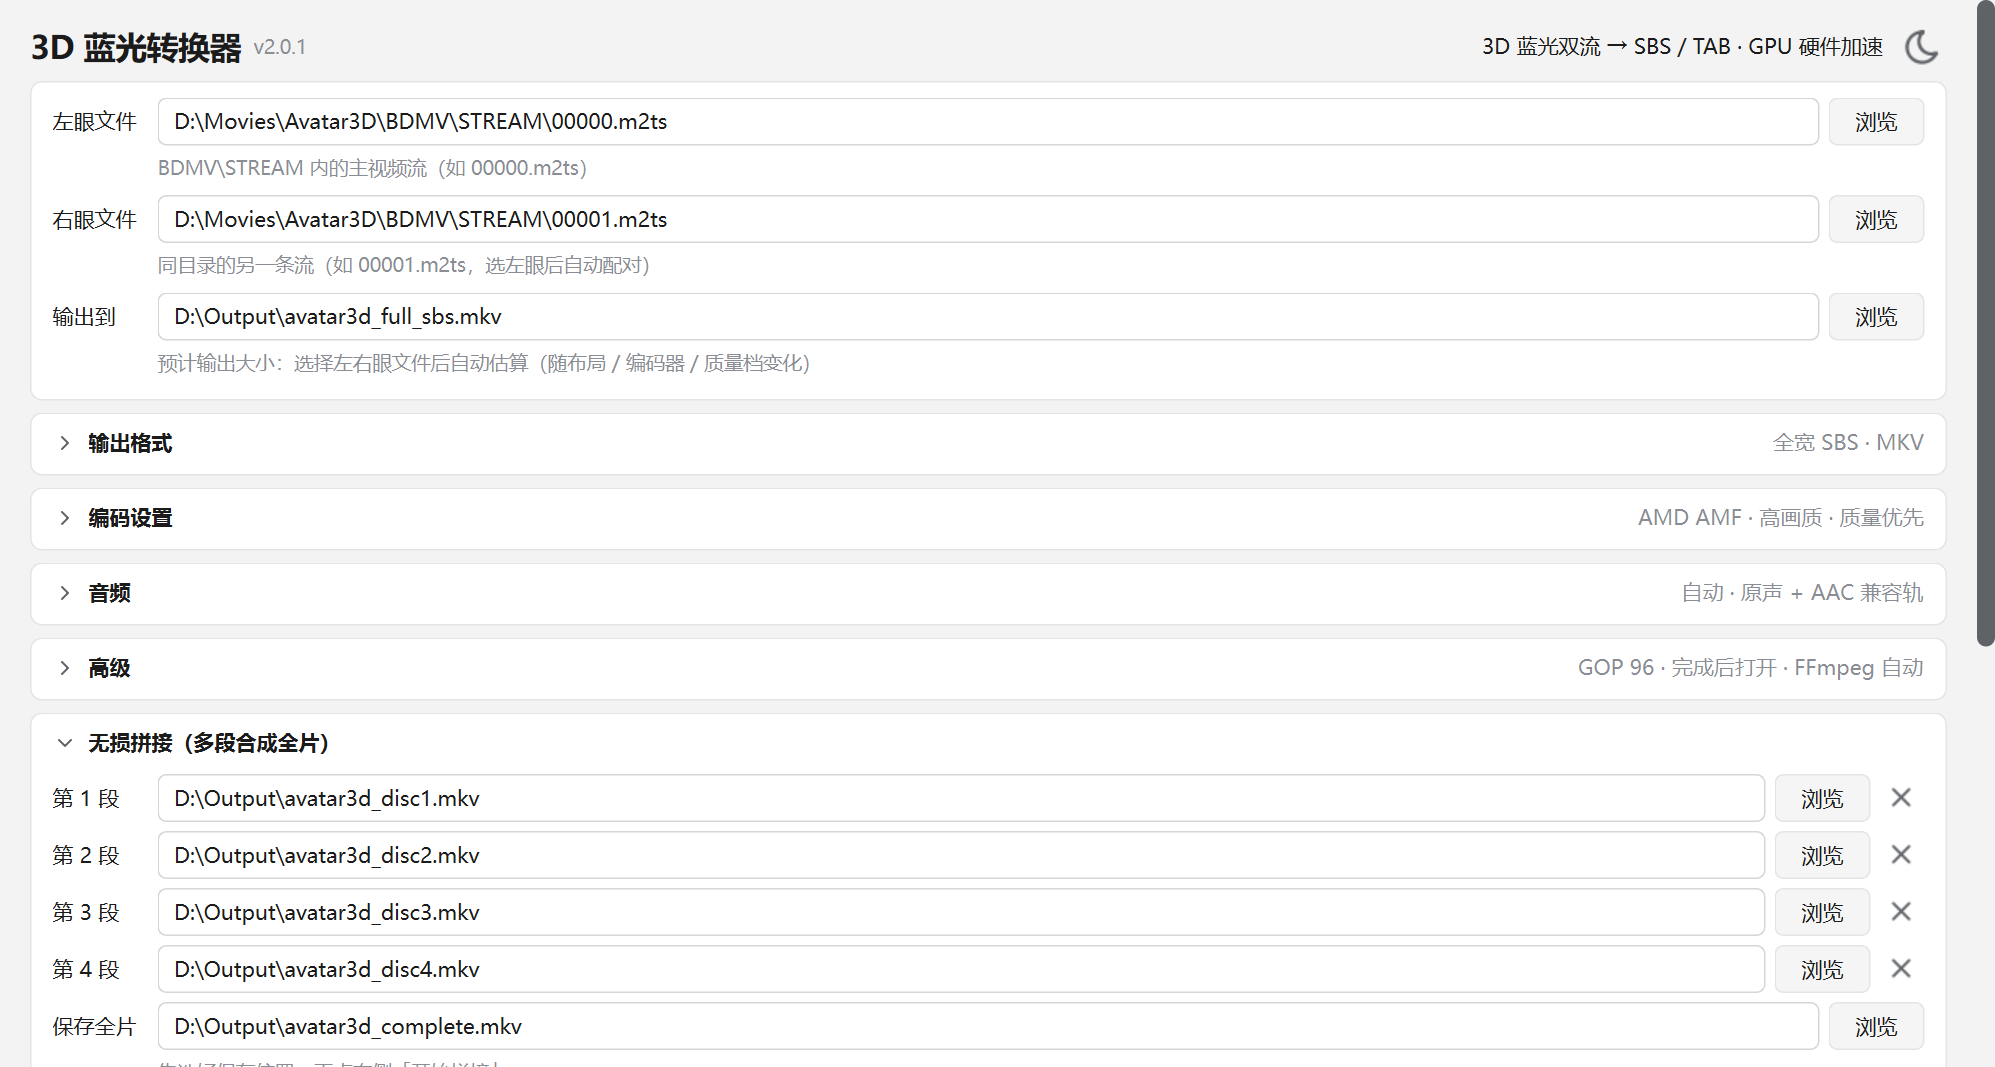
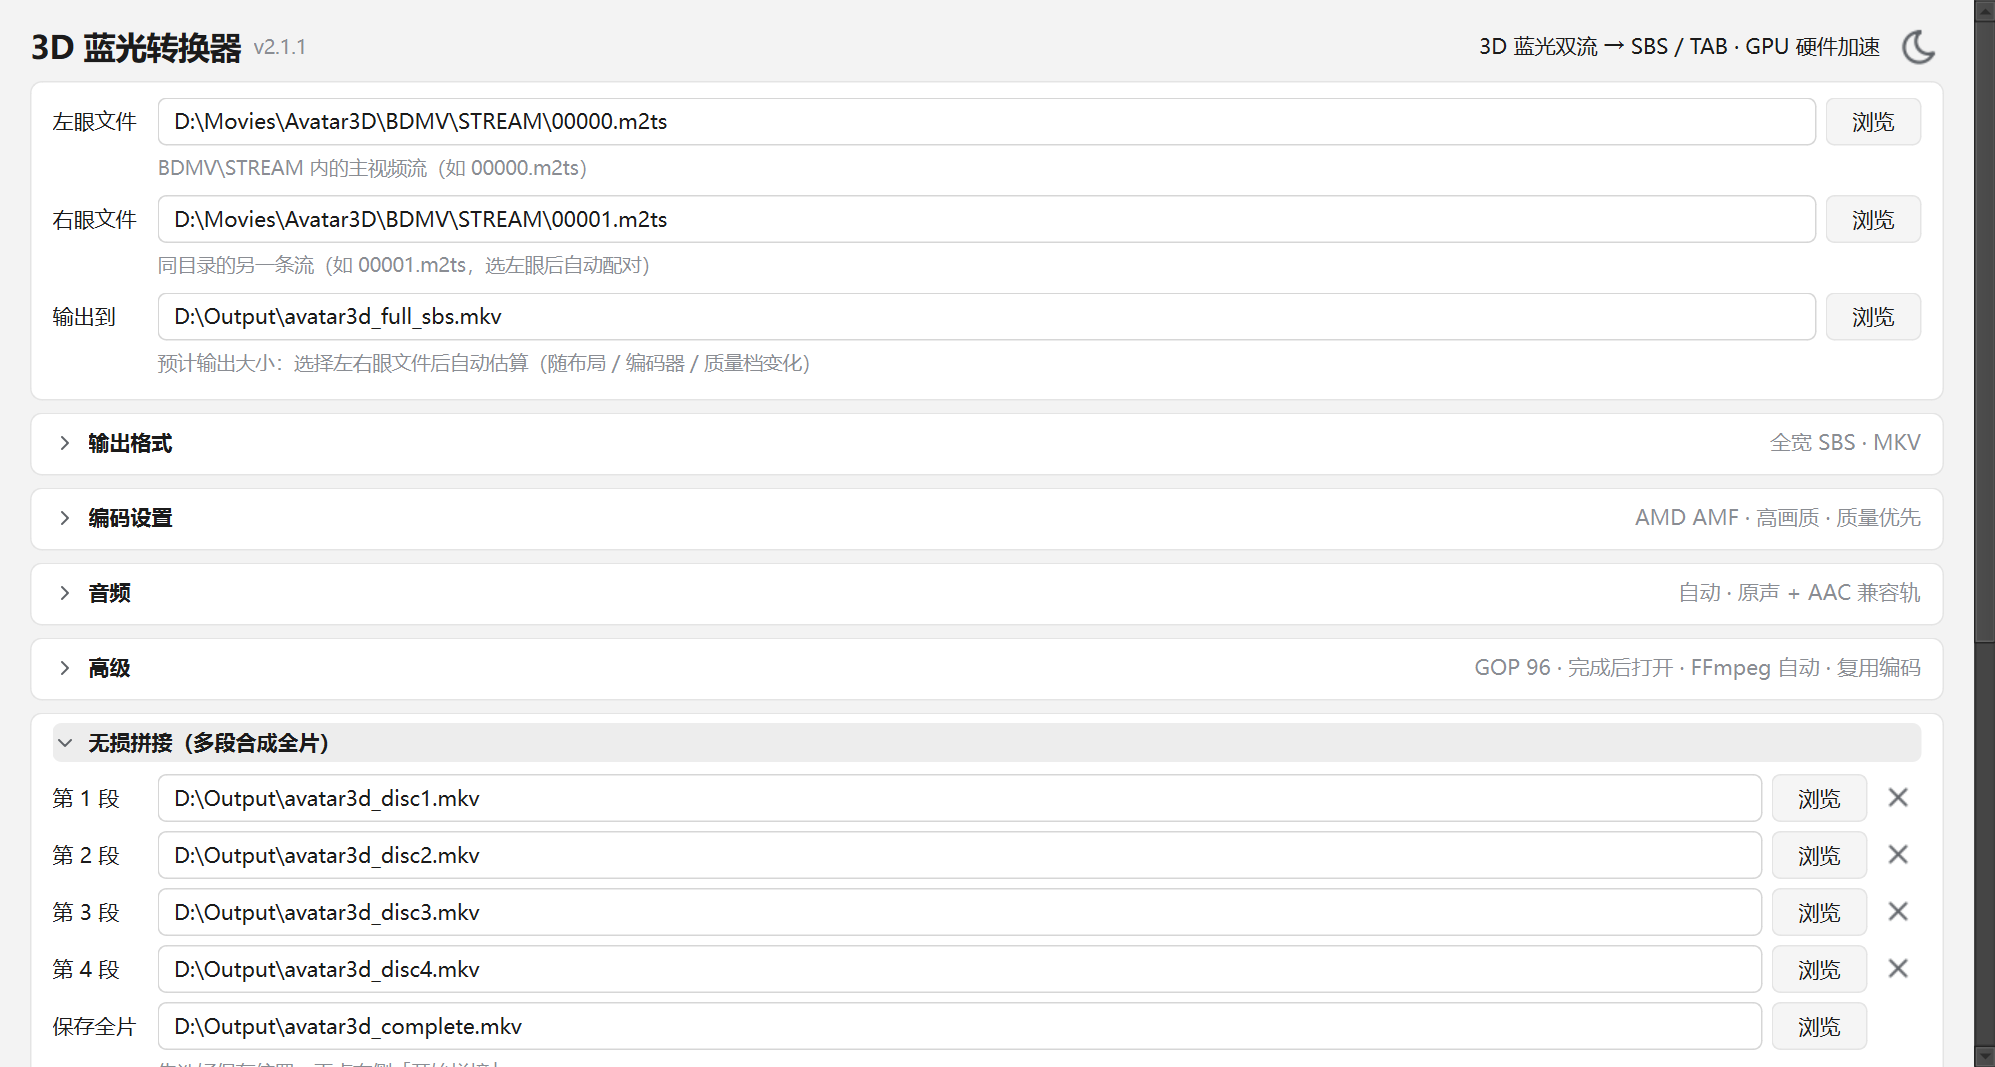
feat: pause/resume with breakpoint continuation (suspend child process), cancel confirmation showing progress deletion, close-event keeps progress; fix concat row browse button alignment; bump v2.2.0

Changed region(s): [[0.7459, 0.0, 1.0, 1.0]]

diff --git a/bluray3d_converter.py b/bluray3d_converter.py
@@ -35,7 +35,7 @@ from PySide6.QtWidgets import (
     QStyledItemDelegate, QStyleOptionViewItem, QFileDialog, QMessageBox, QScrollArea)
 
 APP_TITLE = "3D 蓝光转换器"
-APP_VERSION = "v2.1.1"
+APP_VERSION = "v2.2.0"
 
 # ---- 选项定义 ----
 LAYOUTS = [
@@ -338,6 +338,7 @@ THEMES = {
         dim="#9a9ca8", faint="#6b6d78", input="#2a2c34", input_border="#2e3038",
         accent="#3574f0", accent_h="#2b5fd0", btn="#33363e", btn_h="#3d4149",
         disabled_bg="#24262c",
+        danger="#c62828", danger_h="#d33b3b", danger_p="#a51f1f",
         hover="#26272e", chk_border="#3d4149",
         chev_right="chevron-right.svg", chev_down="chevron-down.svg",
         theme_icon="sun.svg"),
@@ -346,6 +347,7 @@ THEMES = {
         dim="#5f6368", faint="#8a8d93", input="#ffffff", input_border="#d6d6d6",
         accent="#3574f0", accent_h="#2b5fd0", btn="#f5f5f5", btn_h="#ebebeb",
         disabled_bg="#eeeeee",
+        danger="#c62828", danger_h="#d33b3b", danger_p="#a51f1f",
         hover="#ededed", chk_border="#c0c0c0",
         chev_right="chevron-right-light.svg", chev_down="chevron-down-light.svg",
         theme_icon="moon.svg"),
@@ -393,6 +395,11 @@ QPushButton#accent { background: @ACCENT@; border: 1px solid @ACCENT@;
 QPushButton#accent:hover { background: @ACCENT_H@; }
 QPushButton#accent:disabled { background: #2b3f66; border-color: #2b3f66;
                               color: #9aa5b8; }
+QPushButton#danger { background: @DANGER@; color: #ffffff; border: none;
+            border-radius: 6px; padding: 7px 14px; font-weight: 600; }
+QPushButton#danger:hover { background: @DANGER_H@; }
+QPushButton#danger:pressed { background: @DANGER_P@; }
+QPushButton#danger:disabled { background: @DISABLED_BG@; color: @DISABLED_FG@; }
 QProgressBar { background: @BORDER@; border: none; border-radius: 4px; }
 QProgressBar::chunk { background: @ACCENT@; border-radius: 4px; }
 QCheckBox { color: @DIM@; spacing: 8px; }
@@ -587,6 +594,7 @@ class ConvertJob(threading.Thread):
         self.on_done = on_done or (lambda out: None)
         self.on_error = on_error or (lambda err: None)
         self.cancel_flag = False
+        self.paused = False
         self.proc = None
         self.workdir = ""
         self.ffmpeg = ffmpeg or FFMPEG
@@ -594,11 +602,53 @@ class ConvertJob(threading.Thread):
     def cancel(self):
         self.cancel_flag = True
         p = self.proc
-        if p is not None and p.poll() is None:
+        if p is not None:
             try:
+                if self.paused:
+                    self.resume()
                 p.terminate()
             except Exception:
                 pass
+
+    def pause(self):
+        """暂停：挂起当前子进程，进度保留（支持断点续转）"""
+        if self.paused:
+            return True
+        p = self.proc
+        if p is None or p.poll() is not None:
+            return False
+        try:
+            import ctypes
+            h = ctypes.windll.kernel32.OpenProcess(0x1F0FFF, False, p.pid)
+            if not h:
+                return False
+            ctypes.windll.ntdll.NtSuspendProcess(ctypes.c_void_p(h))
+            ctypes.windll.kernel32.CloseHandle(ctypes.c_void_p(h))
+            self.paused = True
+            self._log("已暂停（进度保留，点击「继续转换」可断点续转）")
+            return True
+        except Exception as e:
+            self._log("暂停失败：" + str(e))
+            return False
+
+    def resume(self):
+        """继续：恢复被挂起的子进程"""
+        if not self.paused:
+            return True
+        p = self.proc
+        try:
+            import ctypes
+            if p is not None and p.poll() is None:
+                h = ctypes.windll.kernel32.OpenProcess(0x1F0FFF, False, p.pid)
+                if h:
+                    ctypes.windll.ntdll.NtResumeProcess(ctypes.c_void_p(h))
+                    ctypes.windll.kernel32.CloseHandle(ctypes.c_void_p(h))
+            self.paused = False
+            self._log("已继续转换")
+            return True
+        except Exception as e:
+            self._log("继续失败：" + str(e))
+            return False
 
     def _check(self):
         if self.cancel_flag:
@@ -656,10 +706,8 @@ class ConvertJob(threading.Thread):
                     pass
             self.on_done(self.out_file)
         except Cancelled:
-            self._log("任务已取消")
-            if self.workdir and os.path.isdir(self.workdir):
-                self._log("中间文件夹已保留：%s（重跑相同任务可复用已完成部分）"
-                          % self.workdir)
+            self._log("任务已取消，正在删除本次转换的中间文件...")
+            self._cleanup_workdir()
             self.on_error("已取消")
         except Exception as e:
             self._log("错误：" + str(e))
@@ -688,6 +736,9 @@ class ConvertJob(threading.Thread):
 
         def loop():
             while not holder["stop"].wait(20):
+                if self.paused:
+                    holder["t"] = time.time()
+                    continue
                 gap = time.time() - holder["t"]
                 if gap > 60:
                     self._log("…%s 仍在运行（已 %.0f 秒无新输出；大文件写盘 / "
@@ -1584,7 +1635,8 @@ class MainWindow(QWidget):
             self._add_seg_row("")
         self.le_cat_out = QLineEdit(self.cfg.get("cat_out", ""))
         self._file_row(self.sec_cat.body_layout, "保存全片", self.le_cat_out,
-                       self.pick_cat_out, "先选好保存位置，再点右侧「开始拼接」")
+                       self.pick_cat_out, "先选好保存位置，再点右侧「开始拼接」",
+                       right_pad=30)
         r = QHBoxLayout()
         self.btn_seg_add = QPushButton("添加分段")
         self.btn_seg_add.setFixedWidth(90)
@@ -1604,7 +1656,7 @@ class MainWindow(QWidget):
         self.btn_start = QPushButton("开始转换")
         self.btn_start.setObjectName("accent")
         self.btn_start.setFixedWidth(130)
-        self.btn_start.clicked.connect(self.start)
+        self.btn_start.clicked.connect(self._start_or_pause)
         brow.addWidget(self.btn_start)
         self.btn_cancel = QPushButton("取消")
         self.btn_cancel.setFixedWidth(90)
@@ -1701,7 +1753,7 @@ class MainWindow(QWidget):
         if i >= 0:
             cb.setCurrentIndex(i)
 
-    def _file_row(self, parent, label, le, browse_cmd, hint=""):
+    def _file_row(self, parent, label, le, browse_cmd, hint="", right_pad=0):
         row = QHBoxLayout()
         lb = QLabel(label)
         lb.setFixedWidth(64)
@@ -1711,6 +1763,10 @@ class MainWindow(QWidget):
         b.setFixedWidth(64)
         b.clicked.connect(browse_cmd)
         row.addWidget(b)
+        if right_pad:
+            spacer = QWidget()
+            spacer.setFixedWidth(right_pad)
+            row.addWidget(spacer)
         parent.addLayout(row)
         h = QLabel(hint)
         h.setObjectName("faintlabel")
@@ -2032,15 +2088,45 @@ class MainWindow(QWidget):
         self.lbl_pct.setText("%.1f%%" % pct)
         self.lbl_stat.setText(info)
 
-    def _done(self, out):
+    def _repolish(self, w):
+        w.style().unpolish(w)
+        w.style().polish(w)
+
+    def _reset_start_btn(self):
         self.btn_start.setEnabled(True)
+        self.btn_start.setText("开始转换")
+        self.btn_start.setObjectName("accent")
+        self._repolish(self.btn_start)
+
+    def _start_or_pause(self):
+        """开始 / 暂停 / 继续 三态按钮"""
+        if self.job and self.job.is_alive():
+            if self.job.paused:
+                self.job.resume()
+                self.btn_start.setText("暂停")
+                self.btn_start.setObjectName("danger")
+                self._repolish(self.btn_start)
+                self.lbl_stage.setText("转换中")
+            else:
+                if self.job.pause():
+                    self.btn_start.setText("继续转换")
+                    self.btn_start.setObjectName("accent")
+                    self._repolish(self.btn_start)
+                    self.lbl_stage.setText("已暂停")
+                else:
+                    self._log("当前阶段无法暂停（可能在阶段切换中），请稍后再试")
+        else:
+            self.start()
+
+    def _done(self, out):
+        self._reset_start_btn()
         self.btn_cancel.setEnabled(False)
         self.lbl_stage.setText("完成")
         self._progress(100.0, "输出：" + out)
         QMessageBox.information(self, APP_TITLE, "转换完成！\n\n" + out)
 
     def _fail(self, err):
-        self.btn_start.setEnabled(True)
+        self._reset_start_btn()
         self.btn_cancel.setEnabled(False)
         self._concat_running = False
         self._concat_procs = []
@@ -2194,7 +2280,10 @@ class MainWindow(QWidget):
         self._log("编码器预检通过：%s（FFmpeg %s）" % (
             self.cmb_encoder.currentText(), eff_ver))
         self._save_cfg()
-        self.btn_start.setEnabled(False)
+        self.btn_start.setEnabled(True)
+        self.btn_start.setText("暂停")
+        self.btn_start.setObjectName("danger")
+        self._repolish(self.btn_start)
         self.btn_cancel.setEnabled(True)
         self.lbl_stage.setText("准备中")
         self._log("========== 任务参数 ==========")
@@ -2244,6 +2333,12 @@ class MainWindow(QWidget):
 
     def cancel(self):
         if self._concat_running:
+            r = QMessageBox.warning(
+                self, APP_TITLE,
+                "确定要取消拼接吗？\n\n已写入的临时文件会被清理，需要重新开始。",
+                QMessageBox.Yes | QMessageBox.No, QMessageBox.No)
+            if r != QMessageBox.Yes:
+                return
             self._log("正在取消拼接...")
             for proc in self._concat_procs:
                 try:
@@ -2252,7 +2347,17 @@ class MainWindow(QWidget):
                     pass
             return
         if self.job:
-            self._log("正在取消...")
+            r = QMessageBox.warning(
+                self, APP_TITLE,
+                "确定要取消本次转换吗？\n\n"
+                "取消会【删除所有中间文件】——包括已完成的解流、已编码的视频等\n"
+                "全部进行中的进度，之后无法断点续转。\n\n"
+                "若想保留进度稍后继续，请改点「暂停」或直接关闭窗口。\n\n"
+                "确定取消并删除全部进度吗？",
+                QMessageBox.Yes | QMessageBox.No, QMessageBox.No)
+            if r != QMessageBox.Yes:
+                return
+            self._log("正在取消（将删除中间文件）...")
             self.lbl_stage.setText("正在取消")
             self.job.cancel()
 
@@ -2410,8 +2515,12 @@ class MainWindow(QWidget):
 
     def closeEvent(self, event):
         if (self.job and self.job.is_alive()) or self._concat_running:
-            r = QMessageBox.question(self, APP_TITLE, "任务进行中，确定要退出吗？",
-                                     QMessageBox.Yes | QMessageBox.No, QMessageBox.No)
+            r = QMessageBox.question(
+                self, APP_TITLE,
+                "任务仍在进行中，确定要退出吗？\n\n"
+                "退出会终止当前任务，但【保留】中间文件进度——\n"
+                "下次对同一任务点击开始，会自动断点续转。",
+                QMessageBox.Yes | QMessageBox.No, QMessageBox.No)
             if r != QMessageBox.Yes:
                 event.ignore()
                 return

diff --git a/README.md b/README.md
@@ -9,7 +9,7 @@
 
 **免安装便携版**（内置全部工具链，解压即用，约 260 MB）：
 
-https://github.com/hugo-feng/3d-bluray-converter/releases/download/v2.1.1/3DBlurayConverter_v2.1.1_portable.zip
+https://github.com/hugo-feng/3d-bluray-converter/releases/download/v2.2.0/3DBlurayConverter_v2.2.0_portable.zip
 
 > 解压到**纯英文路径**，双击 `3DBlurayConverter.exe` 运行。需要 Windows 10/11 x64。
 
